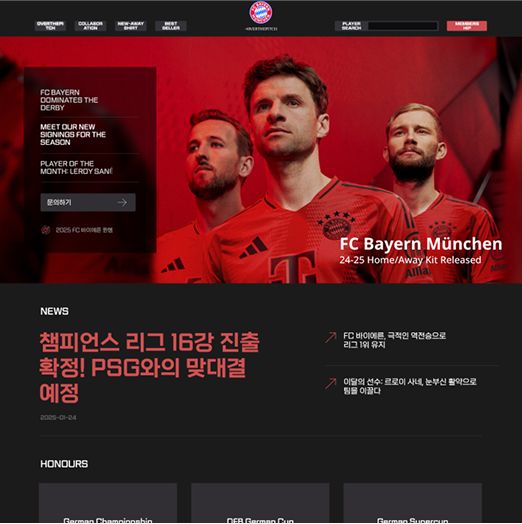
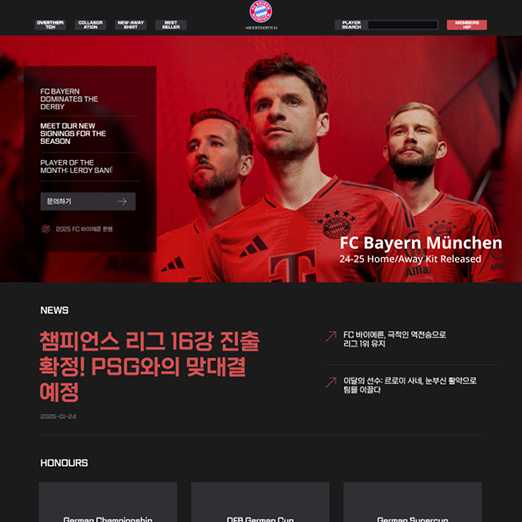
이미지 사이즈조정, 포폴 변경 (게임 ㅡ> 로그인)

diff --git a/css/style.css b/css/style.css
@@ -123,12 +123,11 @@ header.on ~ #visual {margin-top: 126px;}
 
 
 #section2 {padding: 10rem 0;}
-#section2 .content {display: flex; gap: var(--gap1); flex-wrap: wrap
-    ;align-items: flex-start;}
-#section2 .content li {width: 30%; flex-grow: 1; position: relative;}
+#section2 .content {display: flex; gap: var(--gap1); flex-wrap: wrap;align-items: flex-start; }
+#section2 .content li {width: 30%; flex-grow: 1; position: relative; margin-bottom: 50px;}
 #section2 .content a.screen_pc {}
-#section2 .content a.screen_pc .web {border-radius: var(--round1); overflow: hidden; text-align: center; transition: 0.2s; position: relative; top: 0; box-shadow: 0 10px 20px rgba(0,0,0,0.15); height: 400px;}
-#section2 .content a.screen_pc .web img {width: 110%; height: 110%; object-fit: cover;}
+#section2 .content a.screen_pc .web {border-radius: var(--round1); overflow: hidden; text-align: center; transition: 0.2s; position: relative; top: 0; box-shadow: 0 10px 20px rgba(0,0,0,0.15); }
+#section2 .content a.screen_pc .web img {width: 100%; }
 #section2 .content a.screen_pc:hover .web {top: -1rem;}
 
 #section2 .content a.screen_pc .textbox {border-radius:0 0 var(--round1) var(--round1); background: #fff; margin-top: -10rem; padding: 15rem 2rem 6rem;}
@@ -337,7 +336,10 @@ footer .myinfo li a {}
 
 
 @media screen and (max-width:490px) {
-    #section2 .content li {width: 50%;}
+    #section2 .content li {width: 80%; flex-grow: 0; margin: 0 auto; margin-bottom: 30px;}
+    #section3 .content li {width: 80%;}
+    #section4 .content li {width: 40%;}
+    #section2 .content li a.screen_pc .textbox {background: none;}
 }
 @media screen and (max-width:390px) {
     header,

diff --git a/index.html b/index.html
@@ -167,9 +167,9 @@
                             </figure>
                             <div class="textbox">
                                 <em>웹 & 모바일</em>
-                                <h3>게임 : 롤</h3>
-                                <p>리그 오브 레전드(League of Legends, LoL)는 
-                                    라이엇 게임즈(Riot Games)에서 개발하고 서비스하는 멀티플레이어 온라인 배틀 아레나(MOBA) 게임입니다.</p>
+                                <h3>로그인, 회원가입, 게시판</h3>
+                                <p> 트랜드에 맞춘 로그인, 회원가입 페이지 디자인으로 바로 사용할수 있도록 제작하였습니다.
+                                </p>
                                 <span class="icon">
                                     <img src="images/icon_view.png" alt="">
                                 </span>
